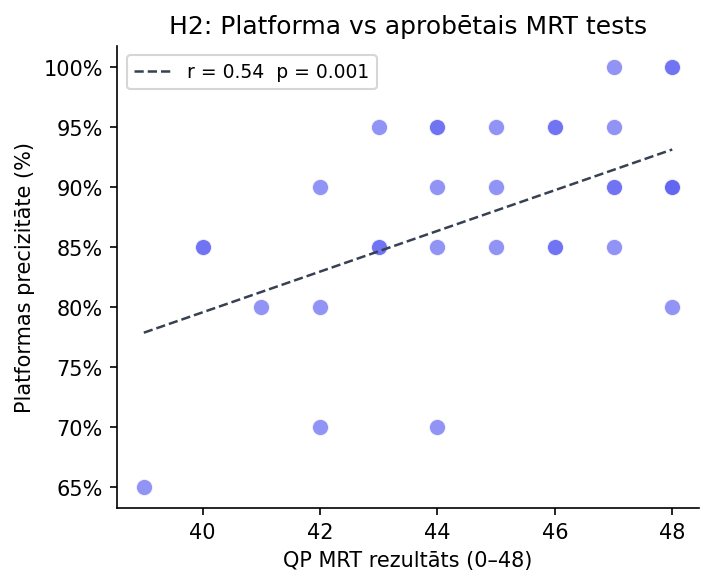
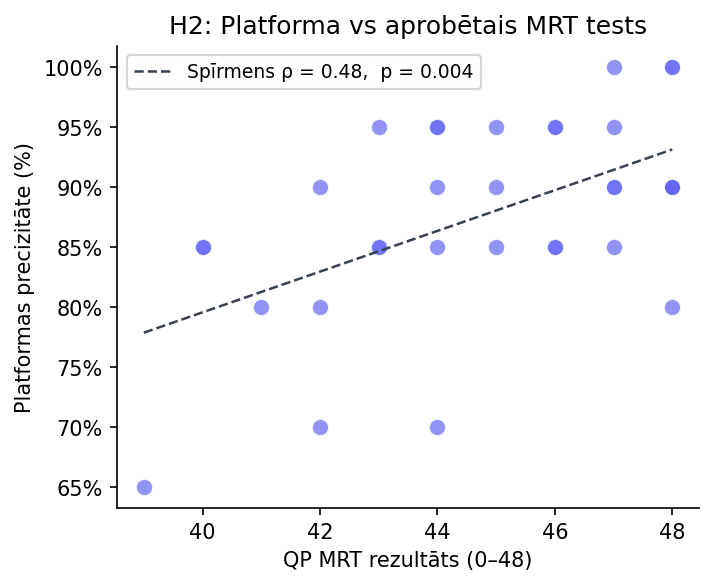
refactor: switch H2 correlation to Spearman's rho for non-normal data

Changed region(s): [[0.432, 0.0922, 0.6788, 0.1536], [0.2468, 0.0922, 0.4011, 0.1536]]

diff --git a/analysis/scripts/04_visualise.py b/analysis/scripts/04_visualise.py
@@ -125,14 +125,17 @@ def fig_h2_platform_vs_qp(participants: pd.DataFrame) -> None:
         print("  H2 figure skipped — not enough overlapping data yet.")
         return
 
-    slope, intercept, r, p, _ = stats.linregress(df[QP_MRT_COL], df["baseline_accuracy"])
+    rho, p = stats.spearmanr(df[QP_MRT_COL], df["baseline_accuracy"])
+
+    # Trend line via linregress (visual only — correlation is Spearman)
+    slope, intercept, *_ = stats.linregress(df[QP_MRT_COL], df["baseline_accuracy"])
     x_line = np.linspace(df[QP_MRT_COL].min(), df[QP_MRT_COL].max(), 100)
 
     fig, ax = plt.subplots(figsize=(5, 4))
     ax.scatter(df[QP_MRT_COL], df["baseline_accuracy"] * 100,
                color=ACCENT, alpha=0.7, edgecolors="white", linewidths=0.5, s=60)
     ax.plot(x_line, (slope * x_line + intercept) * 100, "--", color="#374151",
-            linewidth=1.2, label=f"r = {r:.2f}  p = {p:.3f}")
+            linewidth=1.2, label=f"Spīrmens ρ = {rho:.2f},  p = {p:.3f}")
     ax.set_xlabel("QP MRT rezultāts (0–48)")
     ax.set_ylabel("Platformas precizitāte (%)")
     ax.set_title("H2: Platforma vs aprobētais MRT tests")
